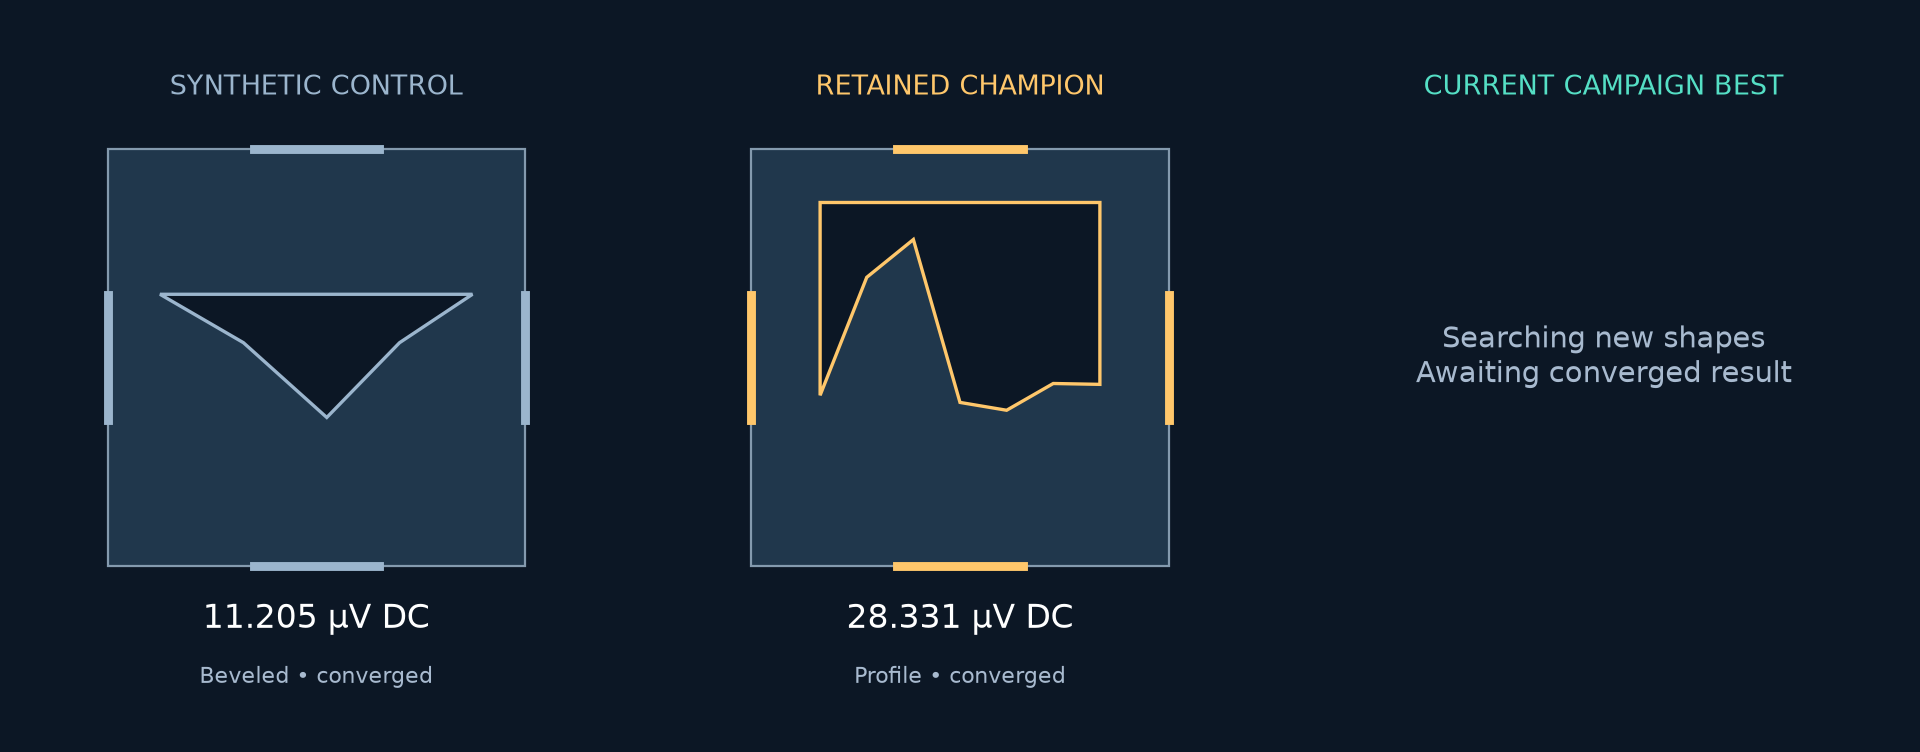
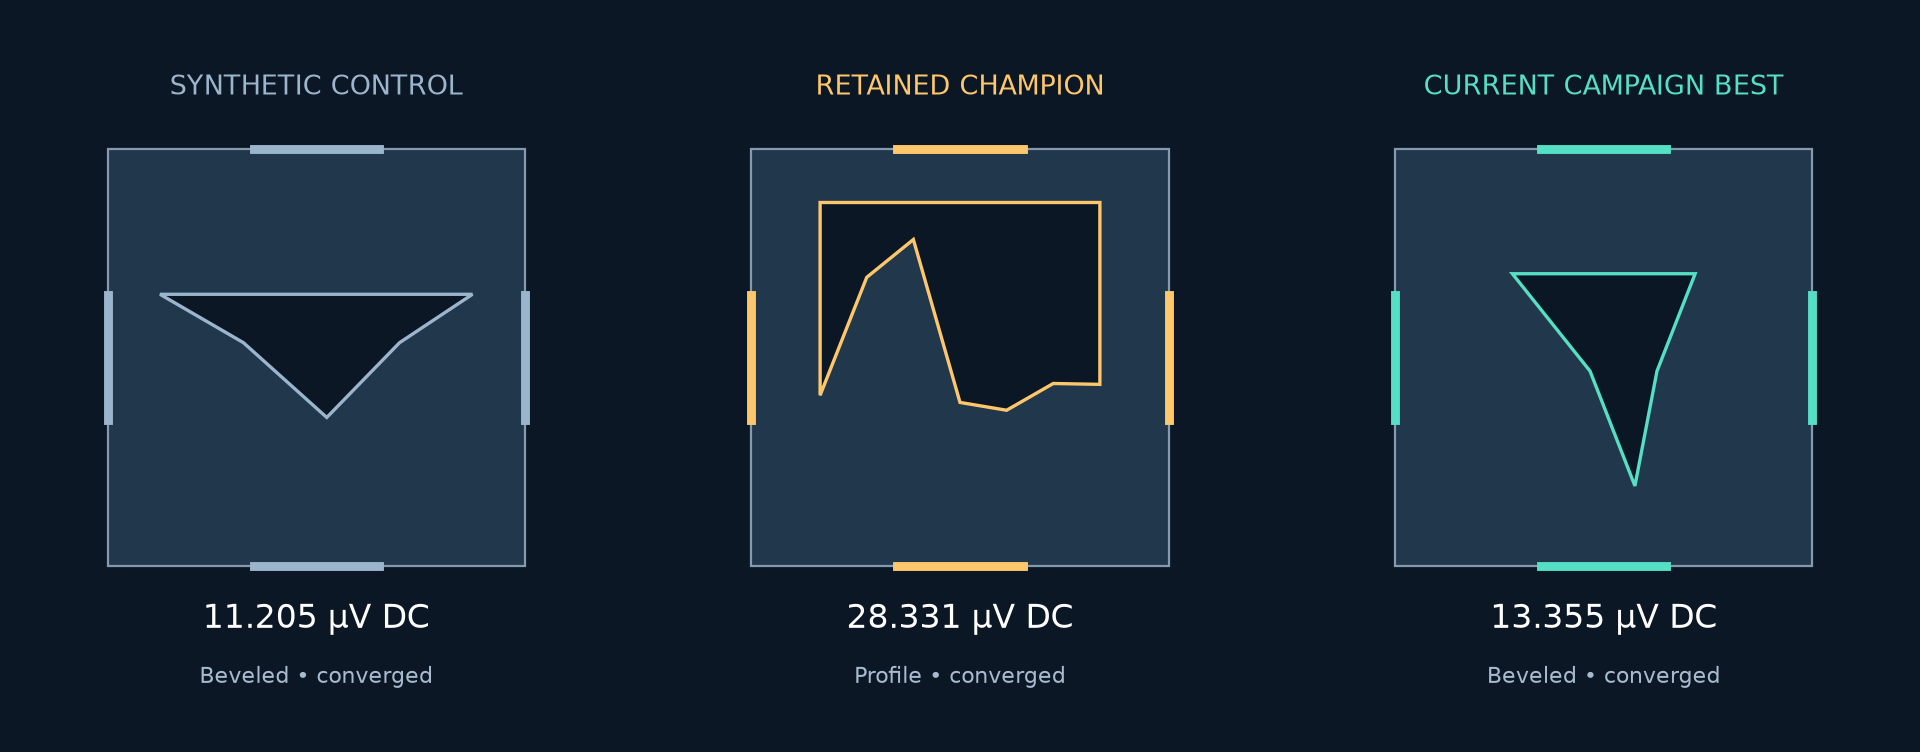
Refresh generated research evidence

Changed region(s): [[0.7188, 0.1835, 0.9688, 0.7646], [0.7812, 0.7952, 0.9062, 0.8564], [0.7812, 0.887, 0.9062, 0.9176]]

diff --git a/README.md b/README.md
@@ -1,7 +1,7 @@
 # Evolutionary Device Lab
 
 <!-- activity:start -->
-**Computing · Updated 2026-10-26 18:14 UTC**
+**Computing · Updated 2026-10-26 18:19 UTC**
 
 Fresh evolutionary shape search · [Data snapshot](results/live/evidence.json) · Published every 5 minutes while the publisher runs.
 <!-- activity:end -->
@@ -32,19 +32,21 @@ The experimental starting point is Shi et al., [*Nanoscale Graphene-Based Ballis
 <!-- discovery:start -->
 **One benchmark. A fresh population. A champion to beat.**
 
-![Synthetic control, retained champion, and best converged design from this campaign](results/live/campaign.png?v=3556ee170919e97f)
+![Synthetic control, retained champion, and best converged design from this campaign](results/live/campaign.png?v=5248f513eb0e19ea)
 
-Champion descendants: **25% of proposals**. Completed generation: **pending**. Only energy- and phase-converged designs enter the comparison. The retained benchmark is preserved; improved qualified winners become parents for subsequent generations. [Model and search methodology](docs/FRESH_DISCOVERY.md).
+Champion descendants: **25% of proposals**. Completed generation: **0**. Only energy- and phase-converged designs enter the comparison. The retained benchmark is preserved; improved qualified winners become parents for subsequent generations. [Model and search methodology](docs/FRESH_DISCOVERY.md).
 
-Latest proposal batch: **40 shapes**, including **10 champion descendants**. Completed matched snapshots: **0** (generation labels start at zero).
+**Geometrically distinct under the current mask threshold.** Current best versus retained champion: **19.9% of device area changed**; **75.3% of etched union changed**. Best score does not imply a new shape family.
+
+Latest proposal batch: **20 shapes**, including **5 champion descendants**. Completed matched snapshots: **1** (generation labels start at zero).
 
 **Shapes being explored now** — one recorded proposal per family, not selected for score.
 
-![Current diverse geometry proposals](results/live/campaign-attempts.png?v=2fe18856e0dc05ef)
+![Current diverse geometry proposals](results/live/campaign-attempts.png?v=26d13775b7aa2910)
 
 **Champion branch: broad offspring** (unranked proposals; parent shown when available).
 
-![Parent and proposed champion descendants](results/live/campaign-offspring.png?v=685159db8d671ffb)
+![Parent and proposed champion descendants](results/live/campaign-offspring.png?v=bf5ca1336937ffea)
 
 [Machine-readable selection and run evidence](results/live/evidence.json) · [Run your own campaign](docs/FRESH_DISCOVERY.md).
 <!-- discovery:end -->
